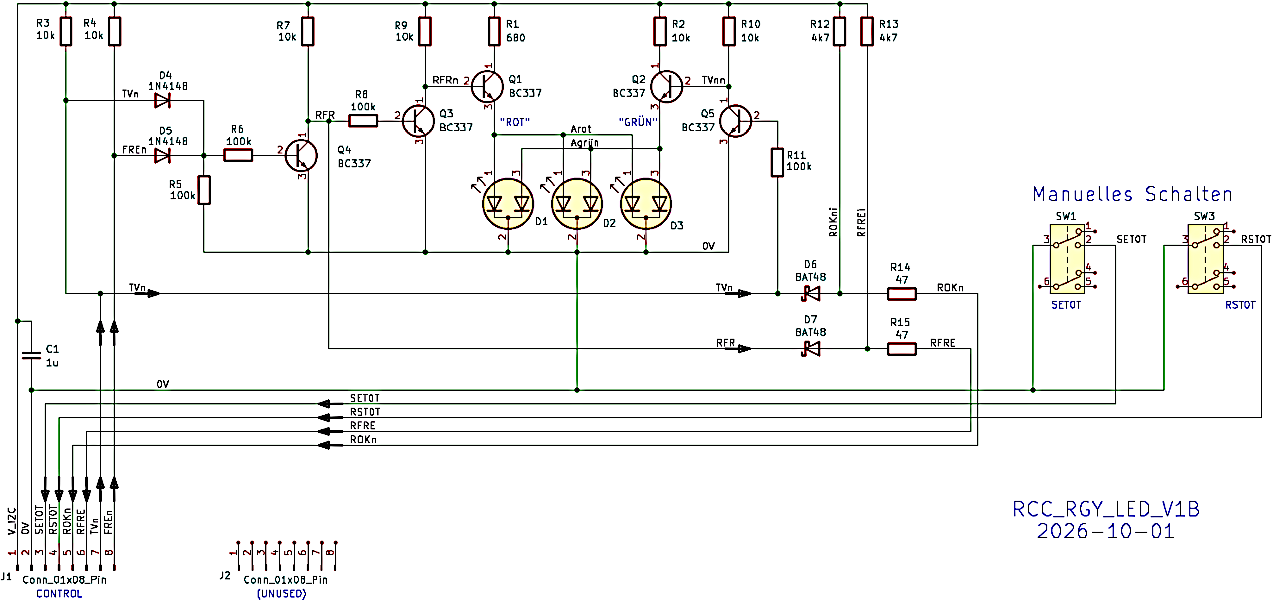
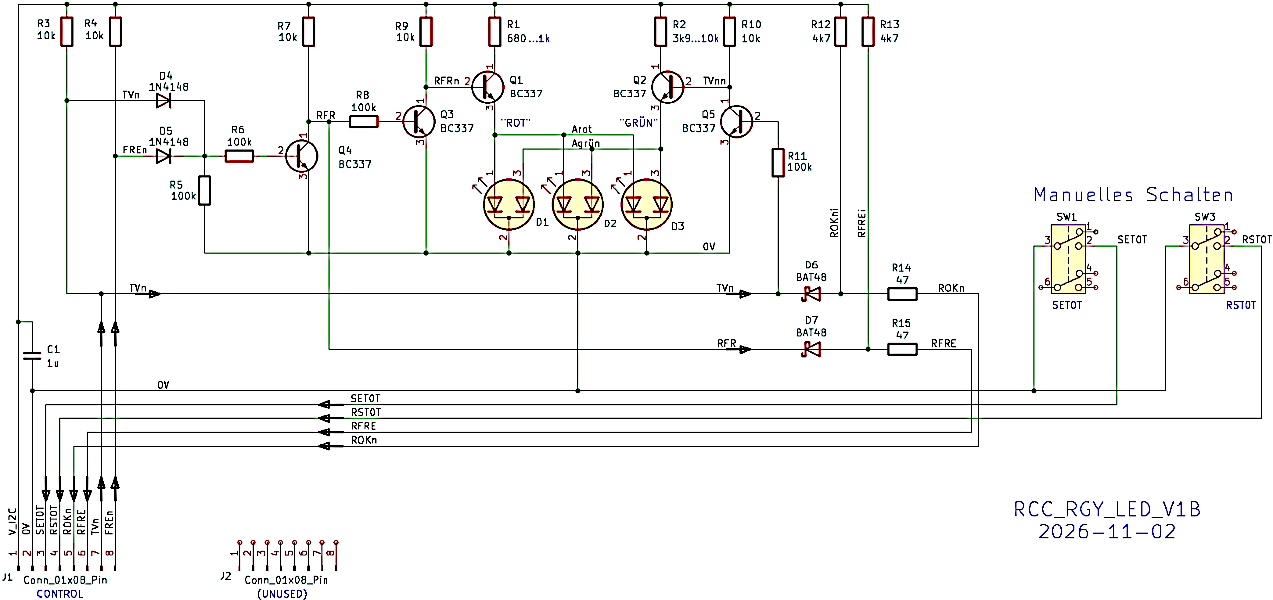
Update LIESMICH

diff --git a/fab/rcc6_additional_components/LIESMICH.md b/fab/rcc6_additional_components/LIESMICH.md
@@ -163,14 +163,15 @@ Best&uuml;ckte Platine "`RCC_RGY_LED_V1B`"
 |-----|-----|-----|-----|   
 | 1 | C1 | Kondensator 1 &micro;F, 16 V, Raster 5,08 mm | C_L4.3mm_D2.8mm_P5.08mm_kh |   
 | 3 | D1, D2, D3 | Dual-LED rot-gr&uuml;n, gemeinsame Kathode | LED_D5.0mm-3 |   
-| 3 | D1, D2, D3 | Buchsenleiste 3-polig mit gedrehten Pins | "Fassung" f&uuml;r LEDs |   
+| 3 | D1, D2, D3 | Buchsenleiste 3-polig mit gedrehten Pins  __*[1]*__ | "Fassung" f&uuml;r LEDs |   
 | 1 | D4 | Diode 1N4148 (oder BAT48) | D_DO-35_P3.81mm_Vertical_AnodeUp_kh |   
 | 1 | D5 | Diode 1N4148 (oder BAT48) | D_DO-35_P2.0mm_Vertical_AnodeUp_kh |   
 | 2 | D6, D7 | Diode BAT48 | D_DO-35_SOD27_P2.54mm_Vertical_AnodeUp_kh |   
 | 2 | J1, J2 | Buchsenleiste 8-polig mit langen Kontakten (Conn_01x08_Pin) | PinSocket_1x08_P2.54mm_Vertical_11mm_kh |   
 | 5 | Q1, Q2, Q3, Q4, Q5 | Transistor BC337-40 (npn) | TO-92_Inline_Wide_custom |   
-| 1 | R1 | 680 &Omega;..1 k&Omega; (2) | R_Axial_DIN0204_L3.6mm_D1.6mm_P7.62mm_Horizontal |   
-| 4 | R2, R3, R9, R10 | 10 k&Omega; | R_Axial_DIN0204_L3.6mm_D1.6mm_P2.54mm_Vertical |   
+| 1 | R1 | **680 &Omega;** ... 1 k&Omega;  __*[2]*__ | R_Axial_DIN0204_L3.6mm_D1.6mm_P7.62mm_Horizontal |   
+| 1 | R2 | **3,9 k&Omega;** ... 4,7 k&Omega; ... 10 k&Omega;  __*[3]*__ | R_Axial_DIN0204_L3.6mm_D1.6mm_P2.54mm_Vertical |   
+| 3 | R3, R9, R10 | 10 k&Omega; | R_Axial_DIN0204_L3.6mm_D1.6mm_P2.54mm_Vertical |   
 | 1 | R4 | 10 k&Omega; | R_Axial_DIN0204_L3.6mm_D1.6mm_P17.78mm_Horizontal |   
 | 2 | R5, R11 | 100 k&Omega; | R_Axial_DIN0204_L3.6mm_D1.6mm_P2.54mm_Vertical |   
 | 1 | R6 | 100 k&Omega; | R_Axial_DIN0204_L3.6mm_D1.6mm_P2.54mm_Vertical_kh |   
@@ -184,9 +185,9 @@ Best&uuml;ckte Platine "`RCC_RGY_LED_V1B`"
 | 2 | SW1, SW3 | Knopf f&uuml;r Taster/Schalter 8x8mm, L&auml;nge 10mm, Farbe je nach Anwendung |    
 
 ### Anmerkungen
-(1) Es ist sinnvoll, die 3-poligen Buchsenleisten an alle 3 LED-Positionen zu l&ouml;ten, auch wenn im Betrieb weniger LEDs eingesetzt werden.  
-(2) Widerstand R1: **680 &Omega;** bei drei Duo-LEDs, 1 k&Omega; bei einer Duo-LED   
-(3) Widerstand R2: **3,9 k&Omega;** bei drei Duo-LEDs, 10 k&Omega; bei einer Duo-LED   
+__*[1]*__ Es ist sinnvoll, die 3-poligen Buchsenleisten an alle 3 LED-Positionen zu l&ouml;ten, auch wenn im Betrieb weniger LEDs eingesetzt werden.  
+__*[2]*__ Widerstand R1: **680 &Omega;** bei drei Duo-LEDs, 1 k&Omega; bei einer Duo-LED   
+__*[3]*__ Widerstand R2: **3,9 k&Omega;** (oder 4,7 k&Omega;) bei drei Duo-LEDs, 10 k&Omega; bei einer Duo-LED   
    
 ### Vorbereitung
 1. Von einer langen, einreihigen Buchsenleiste 3x 3-polige St&uuml;cke abtrennen (f&uuml;r D1 bis D3).   
@@ -254,14 +255,15 @@ Best&uuml;ckte Platine "`RCC_RGY_LED_V1M`"
 |-----|-----|-----|-----|   
 | 1 | C1 | Kondensator 1 &micro;F, 16 V, Raster 5,08 mm | C_L4.3mm_D2.8mm_P5.08mm_kh |  
 | 3 | D1, D2, D3 | Dual-LED rot-gr&uuml;n, gemeinsame Kathode | LED_D5.0mm-3 |   
-| 3 | D1, D2, D3 | Buchsenleiste 3-polig mit gedrehten Pins | "Fassung" f&uuml;r LEDs |   
+| 3 | D1, D2, D3 | Buchsenleiste 3-polig mit gedrehten Pins __*[1]*__ | "Fassung" f&uuml;r LEDs |   
 | 1 | D4 | Diode 1N4148 (oder BAT48) | D_DO-35_P3.81mm_Vertical_AnodeUp_kh |   
 | 1 | D5 | Diode 1N4148 (oder BAT48) | D_DO-35_P2.0mm_Vertical_AnodeUp_kh |   
 | 2 | D6, D7 | Diode BAT48 | D_DO-35_SOD27_P2.54mm_Vertical_AnodeUp_kh |   
 | 2 | J1, J2 | Buchsenleiste 8-polig mit langen Kontakten (Conn_01x08_Pin) | PinSocket_1x08_P2.54mm_Vertical_11mm_kh |   
 | 5 | Q1, Q2, Q3, Q4, Q5 | MOSFET BS170 | TO-92_Inline_Wide_custom |   
-| 1 | R1 | 680 &Omega;..1 k&Omega; (2) | R_Axial_DIN0204_L3.6mm_D1.6mm_P7.62mm_Horizontal |   
-| 4 | R2, R3, R9, R10 | 10 k&Omega; | R_Axial_DIN0204_L3.6mm_D1.6mm_P2.54mm_Vertical |   
+| 1 | R1 | **680 &Omega;** ... 1 k&Omega; __*[2]*__ | R_Axial_DIN0204_L3.6mm_D1.6mm_P7.62mm_Horizontal |   
+| 1 | R2 | **3,9 k&Omega;** ... 4,7 k&Omega; ... 10 k&Omega; __*[3]*__ | R_Axial_DIN0204_L3.6mm_D1.6mm_P2.54mm_Vertical |   
+| 3 | R3, R9, R10 | 10 k&Omega; | R_Axial_DIN0204_L3.6mm_D1.6mm_P2.54mm_Vertical |   
 | 1 | R4 | 10 k&Omega; | R_Axial_DIN0204_L3.6mm_D1.6mm_P17.78mm_Horizontal |   
 | 2 | R5, R8 | 100 k&Omega; | R_Axial_DIN0204_L3.6mm_D1.6mm_P2.54mm_Vertical |   
 | 1 | R6 | 100 k&Omega; | R_Axial_DIN0204_L3.6mm_D1.6mm_P2.54mm_Vertical_kh |   
@@ -275,9 +277,9 @@ Best&uuml;ckte Platine "`RCC_RGY_LED_V1M`"
 | 2 | SW1, SW3 | Knopf f&uuml;r Taster/Schalter 8x8mm, L&auml;nge 10mm, Farbe je nach Anwendung |    
 
 ### Anmerkungen
-(1) Es ist sinnvoll, die 3-poligen Buchsenleisten an alle 3 LED-Positionen zu l&ouml;ten, auch wenn im Betrieb weniger LEDs eingesetzt werden.  
-(2) Widerstand R1: **680 &Omega;** bei drei Duo-LEDs, 1 k&Omega; bei einer Duo-LED   
-(3) Widerstand R2: **3,9 k&Omega;** bei drei Duo-LEDs, 10 k&Omega; bei einer Duo-LED   
+__*[1]*__ Es ist sinnvoll, die 3-poligen Buchsenleisten an alle 3 LED-Positionen zu l&ouml;ten, auch wenn im Betrieb weniger LEDs eingesetzt werden.  
+__*[2]*__ Widerstand R1: **680 &Omega;** bei drei Duo-LEDs, 1 k&Omega; bei einer Duo-LED   
+__*[3]*__ Widerstand R2: **3,9 k&Omega;** (oder 4,7 k&Omega;) bei drei Duo-LEDs, 10 k&Omega; bei einer Duo-LED   
    
 ### Vorbereitung
 1. Von einer langen, einreihigen Buchsenleiste 3x 3-polige St&uuml;cke abtrennen (f&uuml;r D1 bis D3).   
